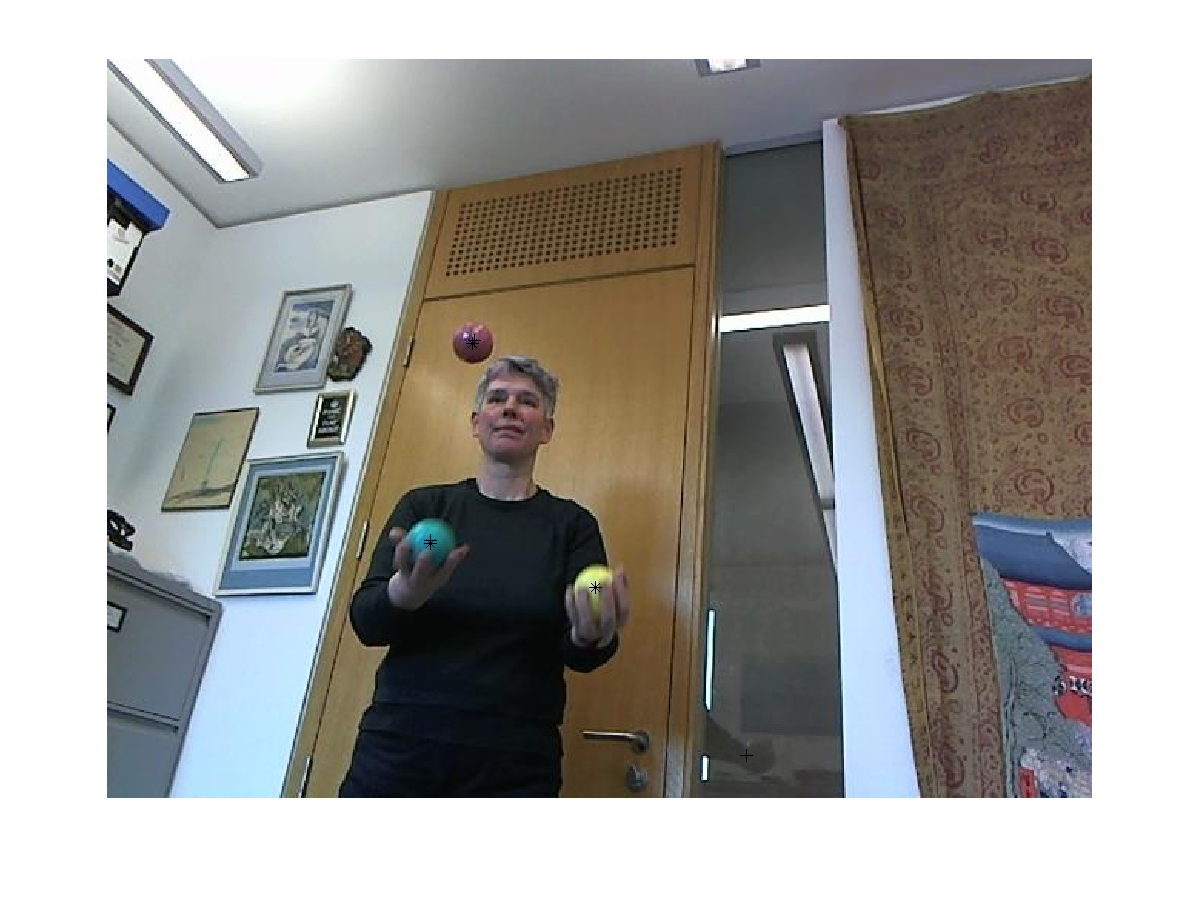
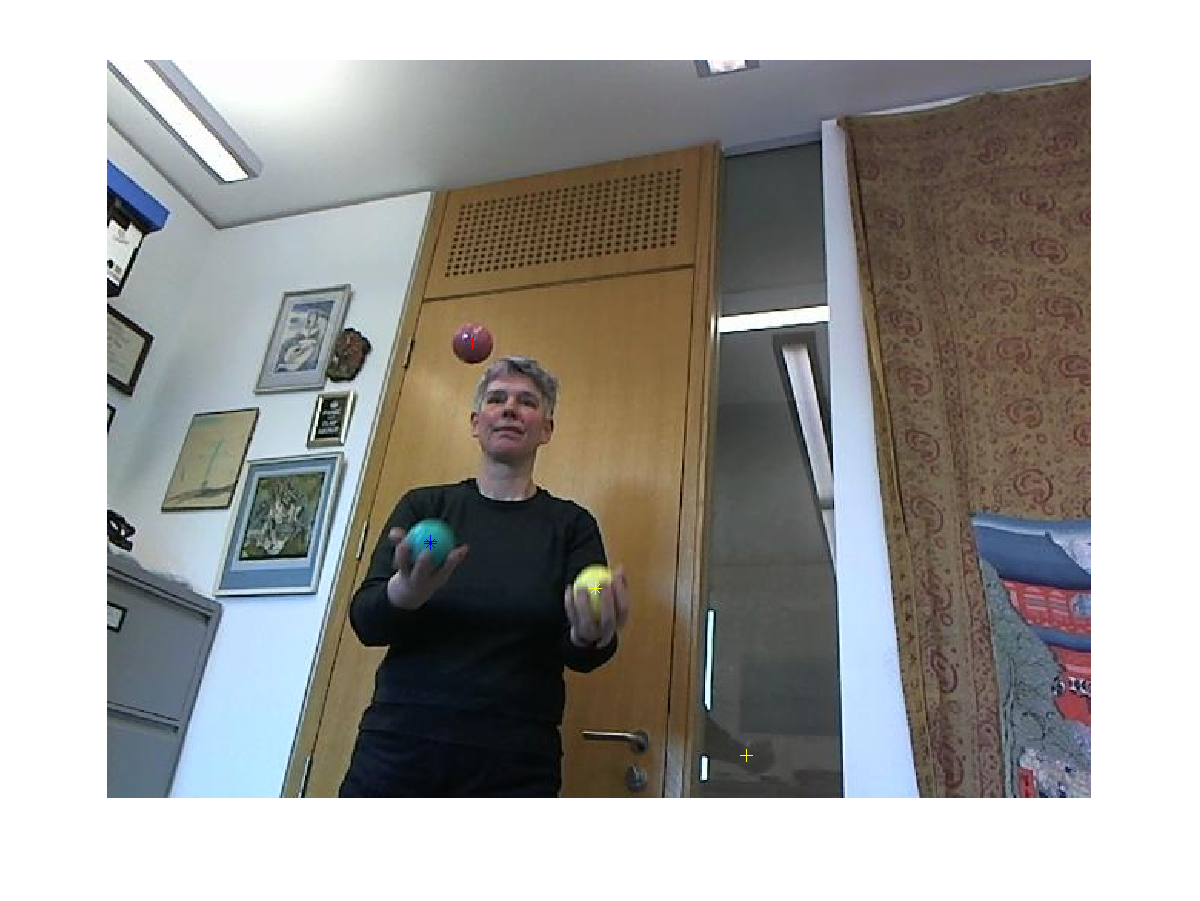
colour data point in plot; fixed main arg check

diff --git a/main.m b/main.m
@@ -17,7 +17,7 @@ function main(skip_detection)
     
     count = size(files,1);
     
-    if nargin == 1 && skip_detection
+    if nargin == 1 & skip_detection
         tracks = load('track.mat');
         tracks = tracks.tracks;
     else
@@ -106,7 +106,8 @@ function main(skip_detection)
         set(fg, 'name', files(ii).name);
         imshow(Image);
         hold on
-        plot(tracks(ii, [1,3,5]), tracks(ii, [2,4,6]), 'k+', gt(ii, [7,5,3]), gt(ii, [6,4,2]), 'k*');
+				plot(tracks(ii, 1), tracks(ii, 2), 'y+',tracks(ii, 3), tracks(ii, 4), 'b+', tracks(ii,5), tracks(ii, 6), 'r+');
+				plot(gt(ii, 7), gt(ii, 6), 'y*', gt(ii,5), gt(ii, 4), 'b*', gt(ii,3), gt(ii,2), 'r*');
         drawnow;
         pause(1 - toc)
         perc = (ii + size(files,1))/(size(files,1) * 2 + 4);
